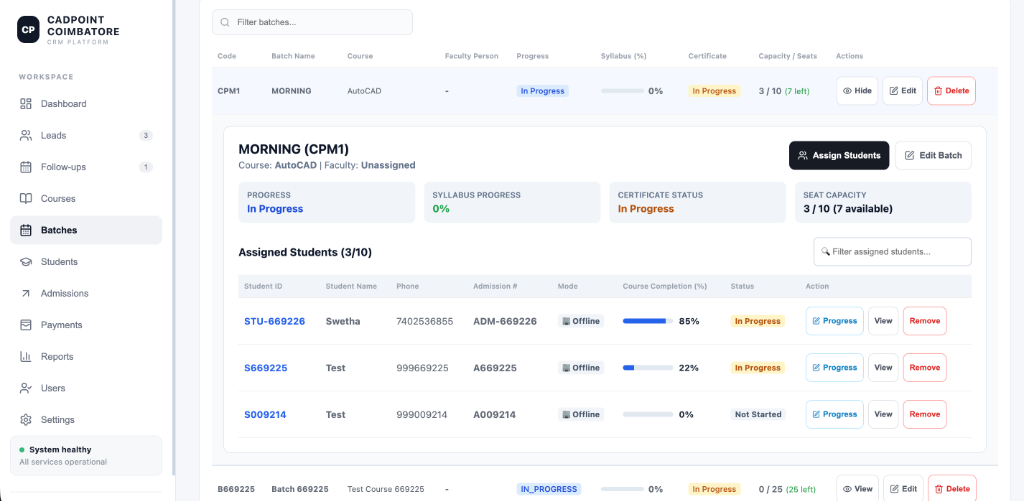
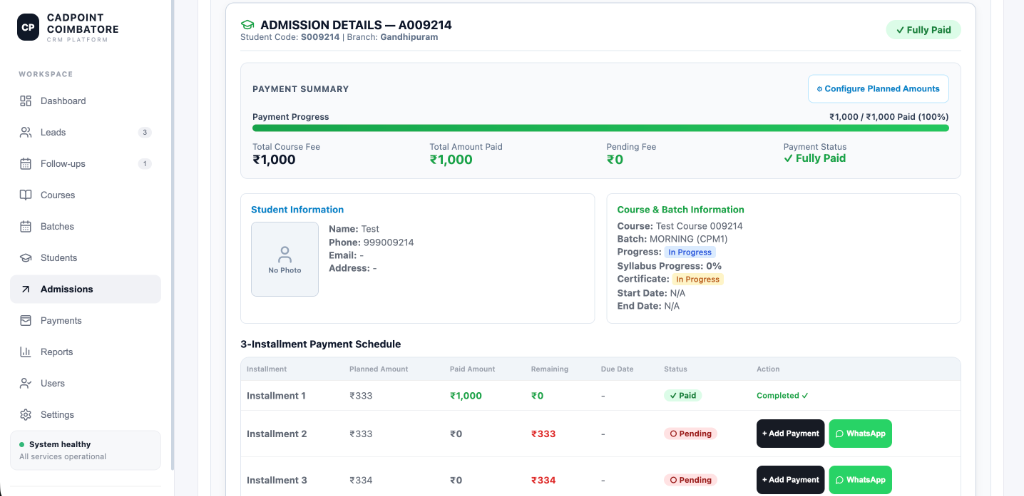
docs(screenshots): add official login page, high-res executive dashboard, and admission installment schedule screenshots to docs/screenshots

diff --git a/README.md b/README.md
@@ -51,22 +51,29 @@ Built with a modern decoupled full-stack architecture, the CRM delivers a high-p
 
 ## 📸 UI Showcase & Screenshots
 
-### 📊 Executive Dashboard
-*Comprehensive real-time view of daily leads, follow-ups, active batches, revenue metrics, and branch selection.*
+### 🔑 Authentication & Login Page
+*Official CADPOINT branded login portal with secure authentication.*
+
+![CAD Points CRM Login](docs/screenshots/login_page.png)
+
+---
+
+### 📊 Executive Dashboard & Analytics
+*Comprehensive real-time overview of monthly enquiries, admissions, collection revenue, and 6-month trend analysis.*
 
 ![CAD Points CRM Dashboard](docs/screenshots/executive_dashboard.png)
 
 ---
 
-### 🎓 Student Admissions & Installment Schedule
-*Complete student onboarding, payment progress tracking, course information, and 3-installment payment schedule.*
+### 🎓 Admissions & 3-Installment Payment Schedule
+*Detailed student enrollment record, payment progress bar, course info, and 3-installment payment schedule.*
 
 ![Student Admissions & Payment Installments](docs/screenshots/admission_installments.png)
 
 ---
 
 ### 📈 Reports & Excel Data Center
-*Custom date range filtering, outstanding fee breakdown, and 1-tap Excel data exports for students, leads, admissions, and payments.*
+*Custom date range filtering, outstanding fee breakdown, and 1-tap Excel exports for students, leads, admissions, and payments.*
 
 ![Reports & Excel Data Center](docs/screenshots/reports_analytics.png)
 
@@ -86,7 +93,7 @@ Built with a modern decoupled full-stack architecture, the CRM delivers a high-p
 
 ---
 
-### 👥 User & Role Management
+### 👥 User Control & Role Management
 *Fine-grained role assignment and user access configuration for administrative controls.*
 
 ![User & Role Management](docs/screenshots/user_management.png)
